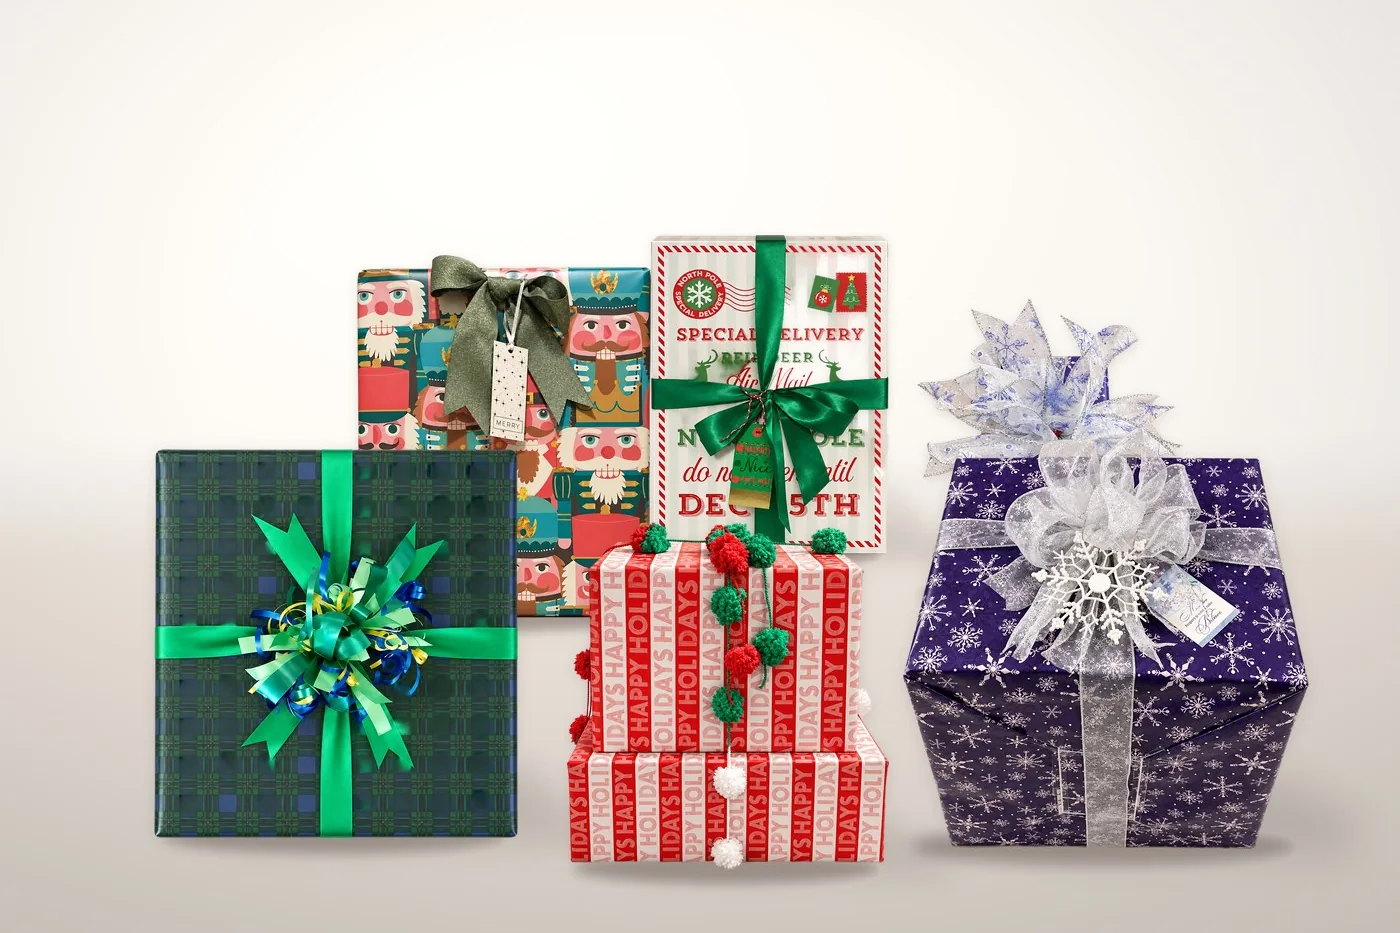
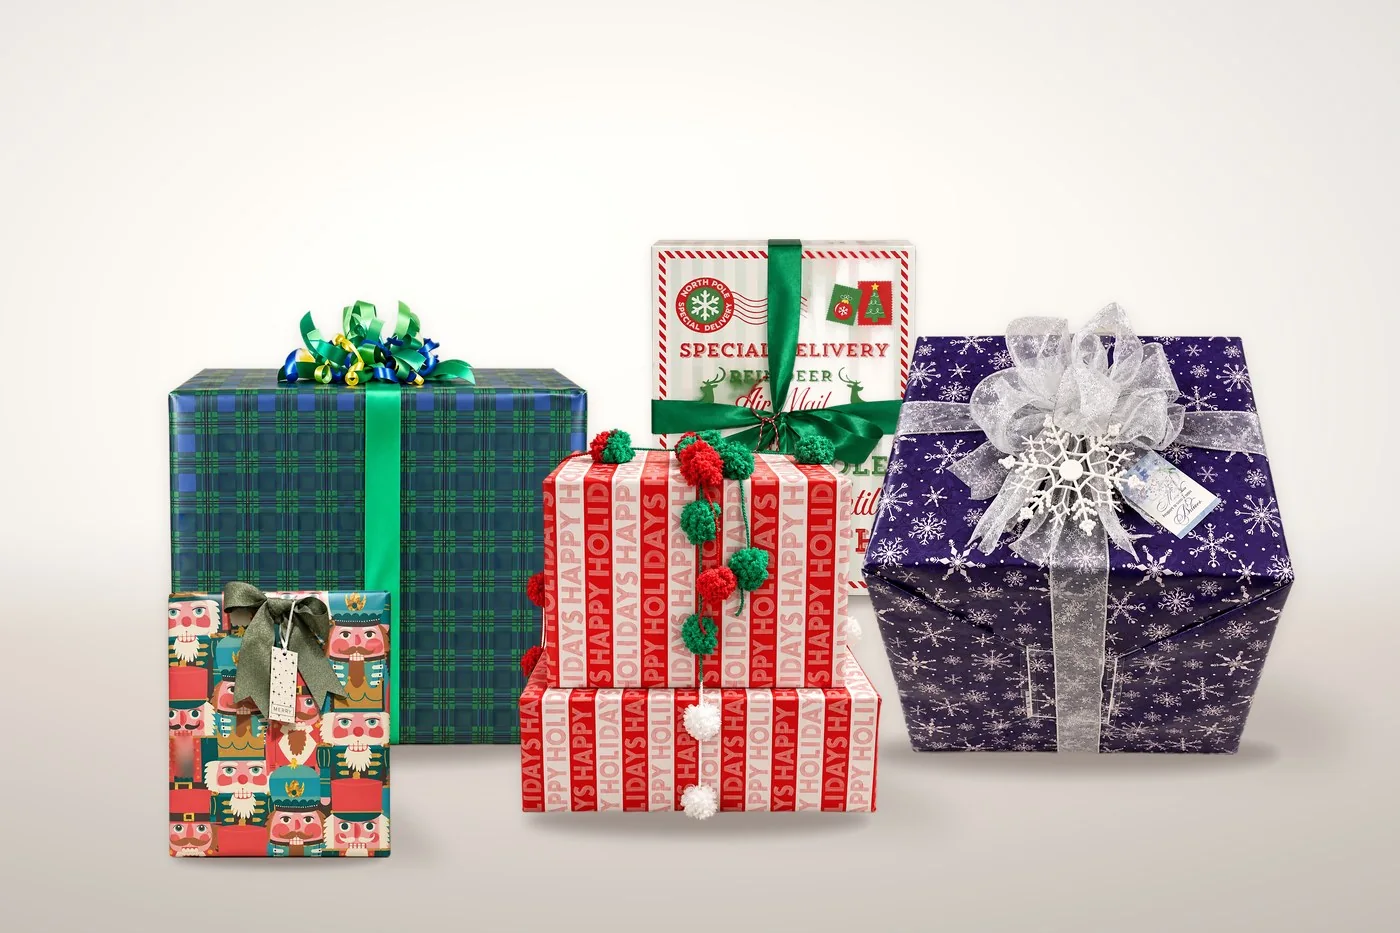
Christmas stack: layered five-gift display composed at frame size
Claude-Session: https://claude.ai/code/session_016JQtQKJMKXSfWYB8dAVTZy

diff --git a/thank-you/index.html b/thank-you/index.html
@@ -80,11 +80,11 @@
   <span class="kicker">Thank you</span><h1>Your request has been received</h1><p class="lede">We will reply within one business day with your free quote and next steps. For anything urgent, text 540-340-4905.</p>
 </div></div>
 <section><div class="wrap" style="text-align:center"><div class="gift-tile reveal in" style="background:#fde4ee;width:220px;margin:0 auto 24px"><svg viewBox="0 0 200 200" aria-hidden="true">
-<defs><pattern id="d32053" width="10" height="10" patternUnits="userSpaceOnUse"><circle cx="5" cy="5" r="1.8" fill="#fff"/></pattern></defs>
+<defs><pattern id="d19381" width="10" height="10" patternUnits="userSpaceOnUse"><circle cx="5" cy="5" r="1.8" fill="#fff"/></pattern></defs>
 <rect x="30" y="86" width="140" height="94" rx="8" fill="#fff"/>
 <rect x="22" y="70" width="156" height="30" rx="5" fill="#fde4ee" stroke="#fff" stroke-width="2"/>
-<rect x="86" y="70" width="28" height="110" fill="#e5648f"/><rect x="86" y="70" width="28" height="110" fill="url(#d32053)"/>
-<rect x="22" y="78" width="156" height="14" fill="#e5648f"/><rect x="22" y="78" width="156" height="14" fill="url(#d32053)"/>
+<rect x="86" y="70" width="28" height="110" fill="#e5648f"/><rect x="86" y="70" width="28" height="110" fill="url(#d19381)"/>
+<rect x="22" y="78" width="156" height="14" fill="#e5648f"/><rect x="22" y="78" width="156" height="14" fill="url(#d19381)"/>
 <path d="M100 74c-14-4-40-26-30-38s26 18 30 38zm0 0c14-4 40-26 30-38s-26 18-30 38z" fill="#b23a5e"/>
 <path d="M100 74c-6 6-18 18-26 12s10-16 26-12zm0 0c6 6 18 18 26 12s-10-16-26-12z" fill="#e5648f"/>
 <circle cx="100" cy="72" r="8" fill="#b23a5e"/><circle cx="97" cy="69" r="2.5" fill="#fff" opacity=".7"/>

diff --git a/index.html b/index.html
@@ -92,7 +92,7 @@
       </ul>
     </div>
     <div class="hero-art">
-      <div class="hero-photo" style="aspect-ratio:3/2"><img src="/assets/photos/land-christmas-stack.webp" alt="A styled display of six Christmas gifts wrapped by All Wrapped Up: navy and green plaid with a green bow, nutcracker, North Pole special delivery, pom-pom stripe and purple snowflake papers with hand-tied bows" width="1400" height="933"></div>
+      <div class="hero-photo" style="aspect-ratio:3/2"><img src="/assets/photos/land-christmas-stack.webp" alt="A styled display of five Christmas gifts wrapped by All Wrapped Up: plaid with a green bow, a pom-pom striped tower, a purple snowflake cube, North Pole special delivery and a nutcracker print with hand-tied bows" width="1400" height="933"></div>
       <div class="hero-badge"><strong>Now booking</strong>Holiday 2026 orders</div>
     </div>
   </div>

diff --git a/build.py b/build.py
@@ -353,7 +353,7 @@ HOME_QUOTE = f'''<section class="pinkbg" id="free-quote">
 # Home page hero photo: (file stem in assets/photos, alt text, (width, height), CSS aspect ratio of the frame)
 # Hero photo rotates by season: the Christmas stack from October through December 26,
 # the rainbow box the rest of the year. Rebuild (python3 build.py) to pick up the change.
-HERO_HOLIDAY = ("land-christmas-stack", "A styled display of six Christmas gifts wrapped by All Wrapped Up: navy and green plaid with a green bow, nutcracker, North Pole special delivery, pom-pom stripe and purple snowflake papers with hand-tied bows", (1400, 933), "3/2")
+HERO_HOLIDAY = ("land-christmas-stack", "A styled display of five Christmas gifts wrapped by All Wrapped Up: plaid with a green bow, a pom-pom striped tower, a purple snowflake cube, North Pole special delivery and a nutcracker print with hand-tied bows", (1400, 933), "3/2")
 HERO_EVERYDAY = ("sq-rainbow-box", "Large gift box in watercolor-dot paper with aqua and confetti ribbon, wrapped by All Wrapped Up", (1200, 1200), "1/1")
 _today = datetime.date.today()
 HERO_PHOTO = HERO_HOLIDAY if (_today.month in (10, 11) or (_today.month == 12 and _today.day <= 26)) else HERO_EVERYDAY
